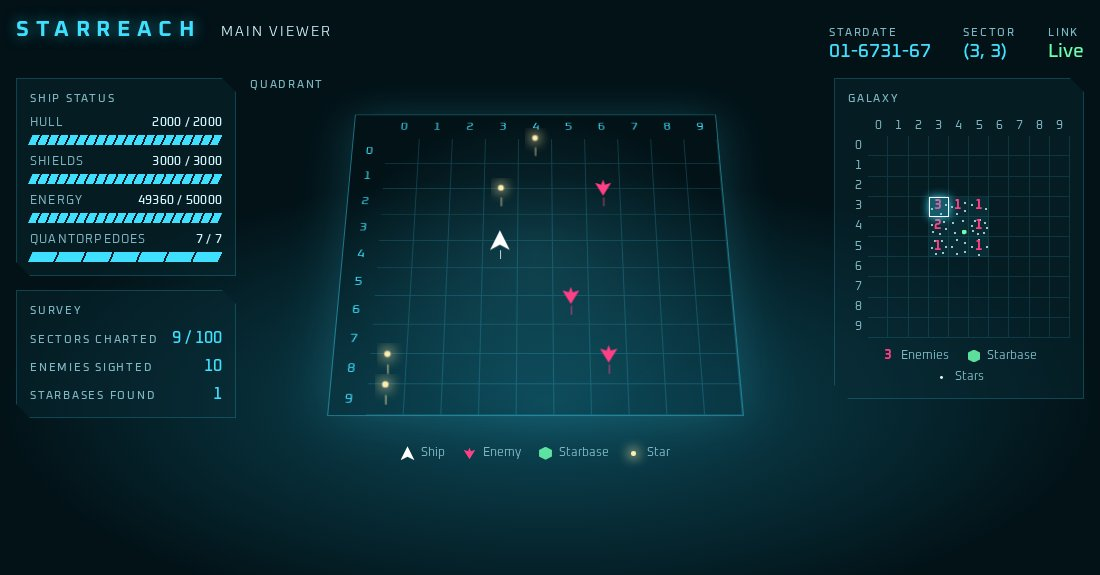
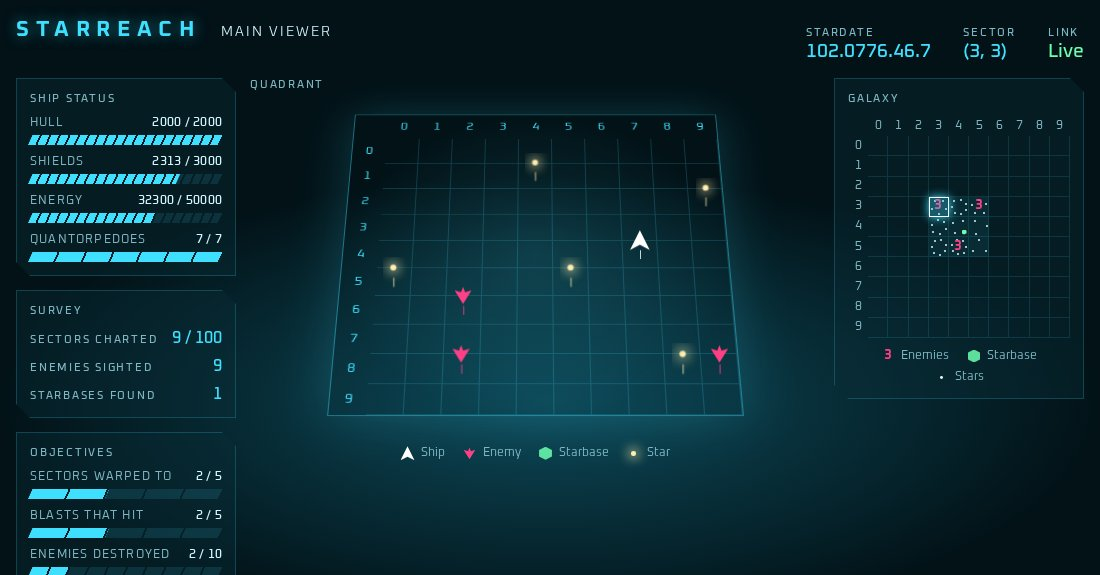
The home page's viewer picture shows the current stardate form and the objectives
Retaken from a live local game at 1100x575; the mockup's sample stardate
uses the ddd.dddd.dd.d form too.

diff --git a/public/index.html b/public/index.html
@@ -24,7 +24,7 @@
 
         <figure class="panel viewer-shot">
             <img src="images/viewer.jpg" width="1100" height="575"
-                 alt="The main viewer: ship status on the left, the current sector as a tilted holographic grid with the ship and three enemies, and the galaxy map on the right">
+                 alt="The main viewer: ship status, survey and objectives on the left, the current sector as a tilted holographic grid with the ship and three enemies, and the galaxy map on the right">
             <figcaption>The main viewer, live while you play: three raiders in sector (3, 3).</figcaption>
         </figure>
 

diff --git a/docs/mockups/viewer_styles.html b/docs/mockups/viewer_styles.html
@@ -235,7 +235,7 @@ svg { display: block; }
 (function () {
   // Sample state in the real GameView shape. A mockup only: nothing here connects to a game.
   const VIEW = {
-    stardate: "24-2507-31",
+    stardate: "102.0773.36.5",
     sector_yx: [4, 6],
     ship: { hull: 1430, max_hull: 2000, shields: 720, max_shields: 3000, energy: 38250, max_energy: 50000, quantorpedoes: 5, max_quantorpedoes: 7 },
     board: [".....*....", "..E.......", "......*...", "..........", "....*.....", ".......E..", "..S.......", "*.........", ".....B....", ".........*"],
